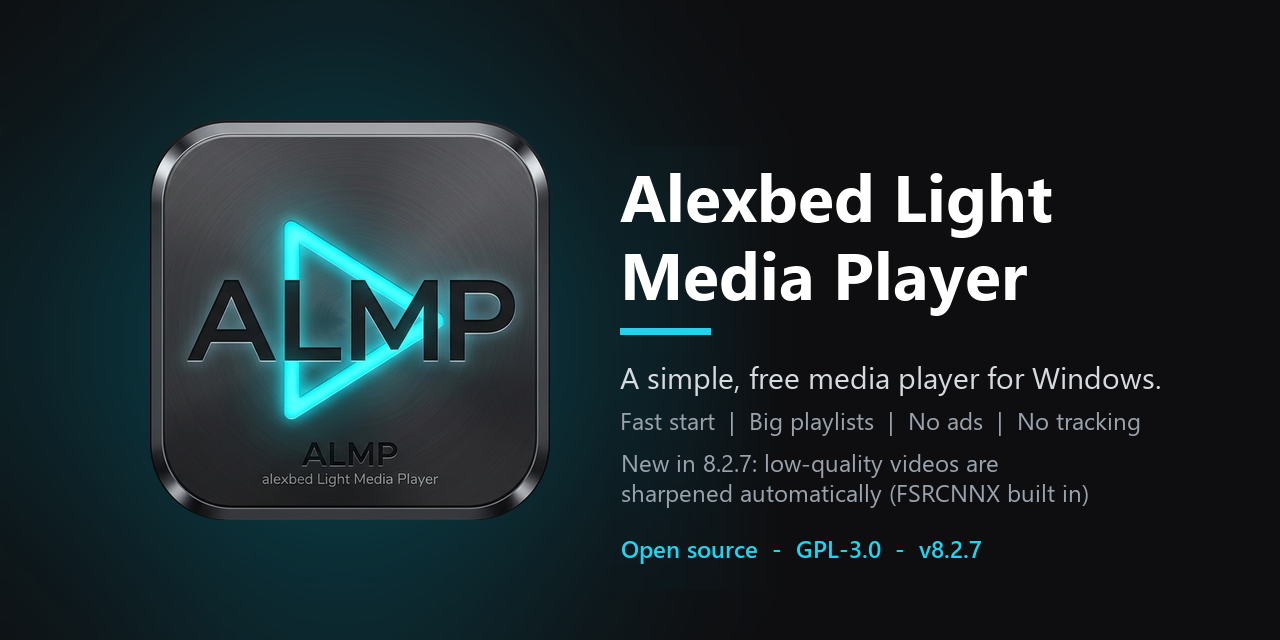
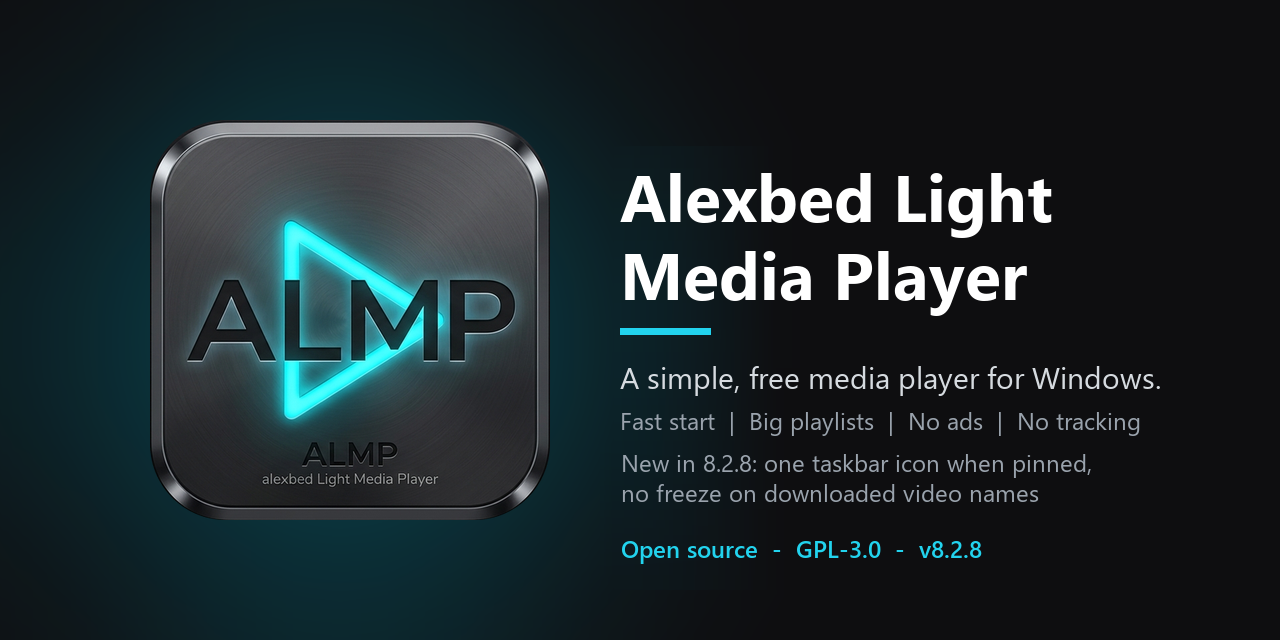
ALMP 8.2.8: one taskbar button, no freeze on full-width file names
- Taskbar: ALMP no longer sets its own AppUserModelID, so Windows groups
  the window with a pin of ALMP.exe (or a shortcut to it). Before, playing
  a file while ALMP was pinned showed a second taskbar button.
- Names with full-width punctuation (U+FF01-FF5E, U+3000) that download
  tools write instead of | " ? : are drawn as plain ASCII (playlist,
  status line, fullscreen title, delete dialogs). Segoe UI lacks them and
  Qt's GDI font list then searched every installed font: ~14 s freeze
  after opening such a file on a PC with 6,674 font families; closing
  3 s after opening took 21 s, now 0.2-0.3 s. Files are not renamed.
- Tests: 327 pass. Screenshots, social card, manual test, release notes.

Changed region(s): [[0.4688, 0.7188, 0.8438, 0.7812], [0.75, 0.8438, 0.7812, 0.875]]

diff --git a/almp/ui.py b/almp/ui.py
@@ -102,6 +102,7 @@ from .media import (
     VIDEO_EXTENSIONS,
     file_ext,
     is_audio_path,
+    screen_text,
     write_playlist_file,
 )
 from .naturalsort import natural_name_key, natural_path_key
@@ -378,7 +379,7 @@ class MediaWindow(QMainWindow):
                 pass
 
     def _status(self, text, announce=False):
-        self.status_label.setText(text)
+        self.status_label.setText(screen_text(text))
         if announce:
             self._announce(text)
 
@@ -976,7 +977,7 @@ class MediaWindow(QMainWindow):
 
     # ------------------------------------------------------------------ fullscreen title
     def _set_fs_title(self, name):
-        self._fs_title_full = name
+        self._fs_title_full = screen_text(name)
         self._fs_title_key = None
         self._layout_fs_title()
 
@@ -2578,7 +2579,7 @@ class MediaWindow(QMainWindow):
         self.video.setMouseTracking(True)
 
         has_bin = pw.recycle_bin_available(path)
-        name = Path(path).name
+        name = screen_text(Path(path).name)
         if has_bin:
             title = "Delete File"
             message = f"Send this file to the Recycle Bin?\n\n{name}\n\nYou can restore it from the Recycle Bin later."
@@ -2685,7 +2686,7 @@ class MediaWindow(QMainWindow):
 
         n = len(paths)
         no_bin = {p for p in paths if not pw.recycle_bin_available(p)}
-        names = "\n".join(Path(p).name for p in paths[:5])
+        names = screen_text("\n".join(Path(p).name for p in paths[:5]))
         if n > 5:
             names += f"\n... and {n - 5} more"
         if not no_bin:

diff --git a/tests/test_logic.py b/tests/test_logic.py
@@ -182,3 +182,27 @@ def test_large_buttons_setting_default_and_validation():
     assert effective_settings({})["large_buttons"] == "auto"
     assert effective_settings({"large_buttons": "never"})["large_buttons"] == "never"
     assert effective_settings({"large_buttons": "x"})["large_buttons"] == "auto"
+
+
+# --- 8.2.8: full-width punctuation in file names froze the window ------------------------
+
+def test_screen_text_shows_full_width_punctuation_as_ascii():
+    from almp.media import screen_text
+    name = "\u201cGolden\u201d Official Lyric Video \uff5c KPop \uff5c Sony-(1080p24).mp4"
+    assert screen_text(name) == "\u201cGolden\u201d Official Lyric Video | KPop | Sony-(1080p24).mp4"
+    assert screen_text("\uff02FRONTLINE\uff02 \uff1f\uff1a\uff0a\u3000x") == '"FRONTLINE" ?:* x'
+    assert screen_text("Ampadu - \u00c9t\u00e9 \u65e5\u672c.flac") == "Ampadu - \u00c9t\u00e9 \u65e5\u672c.flac"
+    assert screen_text("") == "" and screen_text(None) is None
+
+
+def test_playlist_shows_screen_text_but_keeps_the_real_path():
+    from PyQt6.QtCore import Qt
+
+    from almp.playlist_model import PathRole, PlaylistModel
+    from almp.store import make_entry
+    path = r"G:\v\A " + "\uff5c" + " B.mp4"
+    m = PlaylistModel()
+    m.append_entries([make_entry(path)])
+    ix = m.index(0, 0)
+    assert m.data(ix, Qt.ItemDataRole.DisplayRole) == "A | B.mp4"
+    assert m.data(ix, PathRole) == path

diff --git a/tests/test_settings_features.py b/tests/test_settings_features.py
@@ -255,10 +255,17 @@ def test_windows_only_helpers_do_nothing_elsewhere(monkeypatch):
     monkeypatch.setattr(platform_win.sys, "platform", "linux")
     assert platform_win.show_in_explorer("/x") is False
     assert platform_win.folder_verb_installed() is False
-    assert platform_win.set_app_user_model_id() is False
     assert platform_win.open_default_apps_settings() is False
     assert platform_win.set_folder_verb("x", True)[0] is False
-    assert platform_win.APP_USER_MODEL_ID == "Alexbed.ALMP"          # no version: pins survive updates
+
+
+def test_no_own_taskbar_id_so_pins_group():
+    # 8.2.8: an explicit AppUserModelID split ALMP from its taskbar pin (two buttons while playing).
+    # Windows must group the window by ALMP.exe's path, like a pin of ALMP.exe.
+    import pathlib
+    src = "".join(p.read_text(encoding="utf-8") for p in pathlib.Path(platform_win.__file__).parent.glob("*.py"))
+    assert "SetCurrentProcessExplicitAppUserModelID" not in src
+    assert not hasattr(platform_win, "APP_USER_MODEL_ID")
 
 
 # --- mpv options: offline and locked down ---------------------------------------------

diff --git a/almp/playlist_model.py b/almp/playlist_model.py
@@ -15,6 +15,7 @@ import ntpath
 from PyQt6.QtCore import QAbstractListModel, QByteArray, QMimeData, QModelIndex, Qt
 from PyQt6.QtGui import QColor, QFont
 
+from .media import screen_text
 from .store import PlaylistStore, is_refinement, split_query
 
 ROW_MIME = "application/x-almp-playlist-rows"
@@ -76,6 +77,8 @@ class PlaylistModel(QAbstractListModel):
             return None
         if role == Qt.ItemDataRole.DisplayRole or role == Qt.ItemDataRole.AccessibleTextRole:
             name = ntpath.basename(self.store.paths[s])
+            if role == Qt.ItemDataRole.DisplayRole:
+                name = screen_text(name)
             if self.queued is not None:
                 pos = self.queued(self.store.paths[s])
                 if pos:
@@ -84,7 +87,7 @@ class PlaylistModel(QAbstractListModel):
                 return "Playing: " + name
             return name
         if role == Qt.ItemDataRole.ToolTipRole:
-            return self.store.paths[s]
+            return screen_text(self.store.paths[s])
         if role == PathRole:
             return self.store.paths[s]
         if role == SourceRowRole:

diff --git a/almp/platform_win.py b/almp/platform_win.py
@@ -26,7 +26,6 @@ else:                      # names exist so tests can patch them
     winreg = None
     wintypes = None
 
-APP_USER_MODEL_ID = "Alexbed.ALMP"          # no version in it, so taskbar pins survive updates
 
 # --- Deleting files safely ---
 # USB sticks, memory cards, CDs and network drives have no Recycle Bin: Windows would delete
@@ -131,17 +130,6 @@ def send_to_recycle_bin(file_path, permanent=False, hwnd=0):
 
 
 # --- Small helpers ---
-
-def set_app_user_model_id():
-    if sys.platform != "win32":
-        return False
-    try:
-        ctypes.windll.shell32.SetCurrentProcessExplicitAppUserModelID(APP_USER_MODEL_ID)
-        return True
-    except Exception:          # noqa: BLE001
-        log.debug("SetCurrentProcessExplicitAppUserModelID failed", exc_info=True)
-        return False
-
 
 # --- Window frame after fullscreen ---
 # Leaving fullscreen, Windows sometimes leaves the window without its title bar and borders.

diff --git a/almp/media.py b/almp/media.py
@@ -32,6 +32,20 @@ def file_ext(name):
     return os.path.splitext(name)[1].lower()
 
 
+# Full-width punctuation ("｜", "＂", "？", "：" ...) that download tools put into file names
+# instead of the characters Windows does not allow. "Segoe UI" has none of them, and with Qt's
+# GDI font list Qt then searched every installed font: 6.3 s per text style with 6,674 font
+# families (about 14 s in all: the window froze right after opening such a file). They are shown
+# as their ordinary ASCII twins; the file itself is never renamed.
+_SCREEN_MAP = {cp: cp - 0xFEE0 for cp in range(0xFF01, 0xFF5F)}
+_SCREEN_MAP[0x3000] = 0x20                     # full-width space
+
+
+def screen_text(text):
+    """`text` as ALMP draws it: full-width ASCII forms replaced by plain ASCII."""
+    return text.translate(_SCREEN_MAP) if text else text
+
+
 def is_media_name(name):
     return file_ext(name) in SUPPORTED_EXTENSIONS
 

diff --git a/almp/app.py b/almp/app.py
@@ -142,7 +142,8 @@ def main(argv=None):
     if log_mode == "keep":
         start_new_run_log()
 
-    pw.set_app_user_model_id()
+    # v8.2.8: no explicit AppUserModelID. Windows groups ALMP's window with its taskbar pin by ALMP.exe's
+    # path; an own ID made a pin of ALMP.exe (or its shortcut) show a second taskbar button when playing.
 
     settings = effective_settings(load_settings())
     scale = 1.0

diff --git a/almp/__init__.py b/almp/__init__.py
@@ -30,7 +30,7 @@ Layout (pure logic first, so it can be tested without a screen):
   theme.py, widgets.py, dialogs.py, ui.py, app.py   the window
 """
 
-__version__ = "8.2.7"
+__version__ = "8.2.8"
 
 APP_TITLE = "Alexbed Light Media Player"
 APP_SHORT = "ALMP"

diff --git a/README.md b/README.md
@@ -7,7 +7,7 @@ and no accounts, ads or tracking.
 
 ![ALMP 8.2 start screen](images/screenshot-v8.2-welcome.png)
 
-![ALMP 8.2.7 playing music: several playlist items selected, All / Video / Audio filter and the format of the playing track](images/screenshot-v8.2.7-window.png)
+![ALMP 8.2.8 playing music: several playlist items selected, All / Video / Audio filter and the format of the playing track](images/screenshot-v8.2.8-window.png)
 
 ![ALMP 8.2 playing a video: quick-access buttons, Settings (gear) and Loop](images/screenshot-v8.2-playing.png)
 
@@ -17,7 +17,12 @@ and no accounts, ads or tracking.
 
 ![ALMP 8.2 start screen in fullscreen on a big screen or TV](images/screenshot-v8.2-fullscreen.png)
 
-**Version:** 8.2.7 &nbsp;|&nbsp; **Author:** Alexander Bediako &nbsp;|&nbsp; **Licence:** [GPL-3.0-or-later](LICENSE)
+**Version:** 8.2.8 &nbsp;|&nbsp; **Author:** Alexander Bediako &nbsp;|&nbsp; **Licence:** [GPL-3.0-or-later](LICENSE)
+
+**New in 8.2.8:** one taskbar button: with ALMP pinned to the taskbar, playing a file no longer opens a second
+ALMP button next to the pin. And no more freeze of about 14 s after opening a downloaded video whose name has
+full-width characters such as "｜" (shown now as a plain "|"). See the
+[release notes](docs/release-notes/v8.2.8.md).
 
 **New in 8.2.7:** low-quality videos (720p and less) are sharpened automatically with the FSRCNNX shader, which
 is now included (nothing is downloaded; HD videos are left alone; `E` turns it off and on to compare, and ALMP
@@ -117,8 +122,8 @@ and it is not a commercial product.
 > Only download ALMP from this repository's [Releases](../../releases) page. Then click **More info** and **Run anyway**.
 >
 > **Check your download first (recommended).** Each release page lists the zip's SHA-256 checksum. In the Downloads folder,
-> open PowerShell and run `Get-FileHash .\ALMP-v8.2.7-Portable.zip -Algorithm SHA256`
-> (or in Command Prompt: `certutil -hashfile ALMP-v8.2.7-Portable.zip SHA256`).
+> open PowerShell and run `Get-FileHash .\ALMP-v8.2.8-Portable.zip -Algorithm SHA256`
+> (or in Command Prompt: `certutil -hashfile ALMP-v8.2.8-Portable.zip SHA256`).
 > The long code it prints must match the release page exactly (capital or small letters do not matter). If it does not match,
 > do not run the file. See [SIGNING.md](SIGNING.md) for why ALMP is not signed yet.
 

diff --git a/docs/release-notes/v8.2.8.md b/docs/release-notes/v8.2.8.md
@@ -1,0 +1,25 @@
+# ALMP v8.2.8
+
+**Download:** `ALMP-v8.2.8-Portable.zip`
+**SHA-256:** 026BDC08BF5B3EF91E9A335607181C46DF36BAB481DF29F5C1F88BC856F65C01
+
+![ALMP 8.2.8 playing music: names with full-width characters shown plainly](https://raw.githubusercontent.com/alexbedca/Alexbed-Light-Media-Player/main/images/screenshot-v8.2.8-window.png)
+
+![ALMP 8.2.8: a 480p video in fullscreen](https://raw.githubusercontent.com/alexbedca/Alexbed-Light-Media-Player/main/images/screenshot-v8.2.8-fullscreen.png)
+
+## Fixed
+- **One taskbar button.** With ALMP pinned to the taskbar, playing a file opened a second ALMP button next to the pin. ALMP no longer gives its window its own taskbar ID, so Windows puts the window on the pinned icon (any pin of ALMP.exe or a shortcut to it).
+- **No freeze with full-width characters in file names.** Download tools often write "｜", "＂", "？" instead of the characters Windows does not allow. Windows' normal UI font has none of them, so Qt searched every installed font: on a PC with 6,674 font families the window froze for about 14 s right after such a file started (closing it then looked like a hang: 21 s). ALMP now shows them as plain | " ? (the file is not renamed). Closing right after opening such a video: 21 s -> 0.35 s.
+
+## Checked
+- ruff and the test suite pass (327 tests; new: no own taskbar ID, full-width names shown as ASCII while the
+  playlist keeps the real path).
+- On Alexander's PC with the installed 8.2.8 and a real taskbar pin: started from the pin, a song opened while
+  ALMP was open, and a song opened while it was closed: one taskbar button each time (8.2.7: two).
+- Opening a 1080p video named with "｜" and closing ALMP after 3 s: 0.23 to 0.33 s to close (8.2.7: 21 s,
+  with the window frozen for about 14 s). Plain names were not affected before or after.
+
+## Not tested
+- Pins made from the Start menu, and other PCs.
+- File names in Chinese, Japanese or Korean (or rare symbols): Windows' UI font lacks those too, so on a PC
+  with thousands of fonts the first such name can still pause ALMP once for a few seconds.

diff --git a/SIGNING.md b/SIGNING.md
@@ -2,7 +2,7 @@
 
 ## Status (November 2026)
 
-**ALMP releases are not code-signed.** This includes v8.0.0, v8.2.0, v8.2.1, v8.2.2, v8.2.3, v8.2.4, v8.2.5, v8.2.6 and v8.2.7.
+**ALMP releases are not code-signed.** This includes v8.0.0, v8.2.0, v8.2.1, v8.2.2, v8.2.3, v8.2.4, v8.2.5, v8.2.6, v8.2.7 and v8.2.8.
 
 ALMP applied to the [SignPath Foundation](https://signpath.org) free code-signing programme for
 open-source projects. The application was **declined for now**, because the project does not yet
@@ -21,10 +21,10 @@ listed below.
   In the folder with the zip, open PowerShell and run:
 
   ```powershell
-  Get-FileHash .\ALMP-v8.2.7-Portable.zip -Algorithm SHA256
+  Get-FileHash .\ALMP-v8.2.8-Portable.zip -Algorithm SHA256
   ```
 
-  or, in Command Prompt: `certutil -hashfile ALMP-v8.2.7-Portable.zip SHA256`.
+  or, in Command Prompt: `certutil -hashfile ALMP-v8.2.8-Portable.zip SHA256`.
   The long code must be **exactly** the same as on the release page (capital or small letters do not
   matter). If it is different, delete the file and do not run it.
 - Builds made by GitHub Actions also contain `BUILD-INFO.txt`, which names the source commit and the

diff --git a/docs/MANUAL-TEST-v8.1.md b/docs/MANUAL-TEST-v8.1.md
@@ -132,6 +132,12 @@ Legend: **[ ]** to do. "Expected" says what must happen. If something else happe
 - [ ] Opening a file from Explorer while ALMP is still starting: the file arrives and plays.
 - [ ] ALMP never connects to the internet (for example with the network cable unplugged, or watch it in a firewall).
 
+## 14. New in 8.2.8
+- [ ] Pin ALMP to the taskbar, close it, start it from the pin, then open a song from Explorer (ALMP open and
+      closed): only one ALMP button, on the pin.
+- [ ] Open a video whose name has "｜" or "＂" (YouTube downloads) and close ALMP after 3 s: it closes at
+      once; the playlist and status line show a plain "|" or '"'.
+
 ## 13. New in 8.2.7
 - [ ] Play a 480p or 360p video in fullscreen: the picture is sharper than in 8.2.6. The very first time on a PC
       it can stand still for about 3 seconds while the shader is prepared (later about 1 second).
